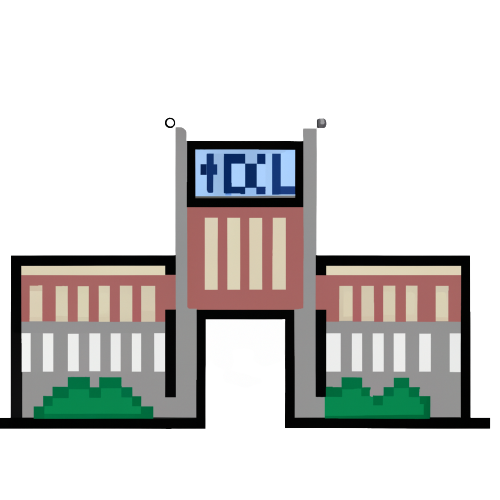
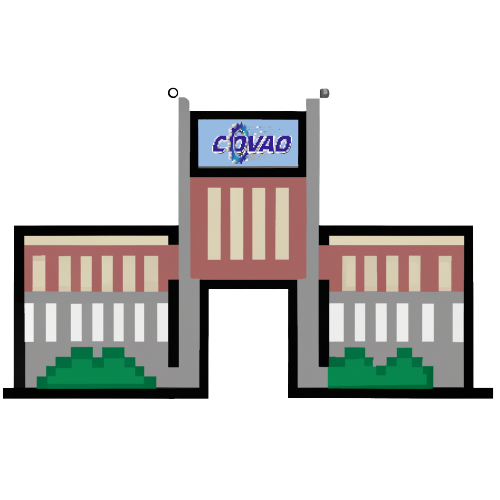
Enemigos añadidos

diff --git a/juegos/laberinto/index.html b/juegos/laberinto/index.html
@@ -14,17 +14,17 @@
     <div class="container">
         <div class="juego">
             <!--Personaje y meta-->
-            <img id="personaje" src="https://media.tenor.com/S61VCO73mOAAAAAC/linux-tux.gif" alt="Inicio">
-            <img id="covao" src="assets/img/logo-covao-sin_slogan.png" alt="Inicio">
+            <img id="personaje" src="assets/img/pingu.png" alt="Inicio">
+            <img id="covao" src="assets/img/cole.png" alt="Inicio">
             <!--Obstaculos-->
             <script src="src/obstaculos.js"></script>
             <!--Enemigos-->
-            <img src="assets/img/zaguatillo.png" style="margin-top:250px; margin-left:950px; width: 50px; height: 50px;" alt="">
-            <img src="assets/img/zaguatillo.png" style="margin-top:50px; margin-left:20px; width: 50px; height: 50px;" alt="">
-            <img src="assets/img/zaguatillo.png" style="margin-top:0px; margin-left:1000px; width: 50px; height: 50px;" alt="">
+            <img class = "enemigo" src="assets/img/zaguatillo.png" style="margin-top:250px; margin-left:950px; width: 50px; height: 50px;" alt="">
+            <img class = "enemigo" src="assets/img/zaguatillo.png" style="margin-top:50px; margin-left:20px; width: 50px; height: 50px;" alt="">
+            <img class = "enemigo" src="assets/img/zaguatillo.png" style="margin-top:0px; margin-left:1000px; width: 50px; height: 50px;" alt="">
         </div>
     </div>
-    <!--Modal-->
+    <!--Modal cuando el juego es exitoso-->
     <div id="modalExito" class="miModal">
         <div class="modal-content">
             <span class="cerrar">&times;</span>
@@ -35,17 +35,30 @@
             </div>
         </div>
     </div>
+    <!--Modal cuando se pierde el juego-->
     <div id="modalDerrota" class="miModal">
         <div class="modal-content">
-            <span class="cerrar">&times;</span>
             <h2>¡Derrota!</h2>
             <p>Tux ha sido asustado por un perro</p>
             <div class="container">
-                <img src="assets/img/pingu.gif" style="height: 400px; width: 400px;" alt="">            
+                <img src="assets/img/zaguatillo.gif" style="height: 400px; width: 400px;" alt="">            
             </div>
         </div>
     </div>
+    <!--Modal cuando el dispositivo es móvil-->
+    <div id="modalCelular" class="miModal">
+        <div class="modal-content">
+            <h2>¡Bienvenido!</h2>
+            <p>Si buscas la experiencia completa, intenta acceder mediante un dispositivo de escritorio</p>
+            <div class="container">
+                <img src="assets/img/zaguatillo.gif" style="height: 400px; width: 400px;" alt="">            
+            </div>
+        </div>
+    </div>
+    <!--Script para manejar el modal-->
     <script src="src/modal.js"></script>
+    <!--Script para verificar si el dispositivo es apto-->
+    <script src="src/verificarDispositivo.js"></script>
 <hr>
 </body>
 </html>

diff --git a/juegos/laberinto/src/index.js b/juegos/laberinto/src/index.js
@@ -1,6 +1,6 @@
 document.addEventListener("DOMContentLoaded", function(event) {
     //La primera dimensión son los x y la segunda las y
-    const posicionesEnemigosX = [950, 0];
+    const posicionesEnemigosX = [950, 0, 1000];
     const posicionesEnemigosY = [250, 350, 400];
     const personaje = document.getElementById("personaje");
     const covao = document.getElementById("covao");
@@ -34,45 +34,42 @@ document.addEventListener("DOMContentLoaded", function(event) {
             posicion.y = newY;
             personaje.style.left = newX + "px";
             personaje.style.top = newY + "px";
-            checkWin();
+            juegoGanado();
             enemigoEncontrado();
         }
     }
 
     function MovimientoValido(x, y) {
-        if (x < 0 || x > 999 || y < 0 || y > 550) {
-            return false; // Movimiento fuera del límite del juego
+        if (x < 0 || x > 1000 || y < 0 || y > 550) {
+            return false;
         }
 
         for (let obstaculo of listaObstaculos) {
             if (x === obstaculo.offsetLeft && y === obstaculo.offsetTop) {
-                return false; // Movimiento en un obstáculo
+                return false;
             }
         }
 
-        return true; // Movimiento válido
+        return true;
     }
 
-    function checkWin() 
+    const juegoGanado = () =>
     {
-        if (posicion.x === covao.offsetLeft && posicion.y === covao.offsetTop) {
+        if (posicion.x === 900 && posicion.y === 550) {
             modal.style.display = "block";
+            personaje.style.display = "none"
             window.removeEventListener("keydown", handleKeyPress);
         }
     }
-    function enemigoEncontrado()
+    const enemigoEncontrado = () =>
     {
-        for (let i = 0; i<2; i++)
+        for (let i = 0; i<3; i++)
         {
-            if (posicion.x === posicionesEnemigosX[i])
+            let posicionEnemigo = [posicionesEnemigosX[i], posicionesEnemigosY[i]]
+            if (posicion.x === posicionEnemigo[0] && posicion.y === posicionEnemigo[1])
             {
-                for (let j = 0; j<3; j++)
-                {
-                    if (posicion.y === posicionesEnemigosY[j])
-                    {
-                        modal.style.display = "block";
-                    }
-                }
+                personaje.style.display = "none"
+                modalFin.style.display = "block";
             }
         }
         if (posicion.x === 950 && posicion.y === 250)

diff --git a/juegos/laberinto/src/modal.js b/juegos/laberinto/src/modal.js
@@ -1,16 +1,21 @@
 const modal = document.getElementById("modalExito");
+const modalFin = document.getElementById("modalDerrota");
 const btnCerrar = document.getElementsByClassName("cerrar")[0];
 //Eventos del Modal
+
 btnCerrar.addEventListener("click", function() 
 {
-    modal.style.display = "none";
-    this.window.location.reload();
+    Recargar();
 });
 window.addEventListener("click", function(event) 
 {
-    if (event.target === modal) 
+    if (event.target === modal || event.target ===modalFin) 
     {
-        modal.style.display = "none";
-        this.window.location.reload();
+        Recargar();
     }
 });
+const Recargar = () =>
+{
+    modal.style.display = "none";
+    this.window.location.reload();
+}

diff --git a/juegos/laberinto/src/verificarDispositivo.js b/juegos/laberinto/src/verificarDispositivo.js
@@ -1,0 +1,22 @@
+// Verificar si el usuario está en un dispositivo móvil
+function isMobileDevice() 
+{
+    return /Android|webOS|iPhone|iPad|iPod|BlackBerry|IEMobile|Opera Mini/i.test(navigator.userAgent);
+}
+// Verificar si el usuario está en una tableta
+function isTablet() 
+{
+    return /iPad|Android/i.test(navigator.userAgent) && !window.MSStream;
+}  
+// Verificar si el usuario está en un dispositivo de escritorio
+function isDesktop() 
+{
+    return !isMobileDevice() && !isTablet();
+}
+if (isDesktop())
+{
+    const juego = Array.from(document.getElementsByClassName("juego"))[0];
+    const modal = getElementById("modalCelular");
+    juego.style.display = "none";
+    modal.style.display = "block"
+}

diff --git a/juegos/laberinto/assets/juego.css b/juegos/laberinto/assets/juego.css
@@ -4,6 +4,7 @@
     height:600px;
     border: 1px solid black;
     position: relative;
+    background-image: url(img/fondo.png);
 }
 #personaje 
 {
@@ -15,13 +16,14 @@
 }
 #covao 
 {
-    width: 70px;
-    height: 50px;
+    width: 150px;
+    height: 100px;
     position: absolute;
-    top: 550px;
+    top: 520px;
     left: 900px;
 }
-.obstaculo {
+.obstaculo 
+{
     width: 50px;
     height: 50px;
     position: absolute;
